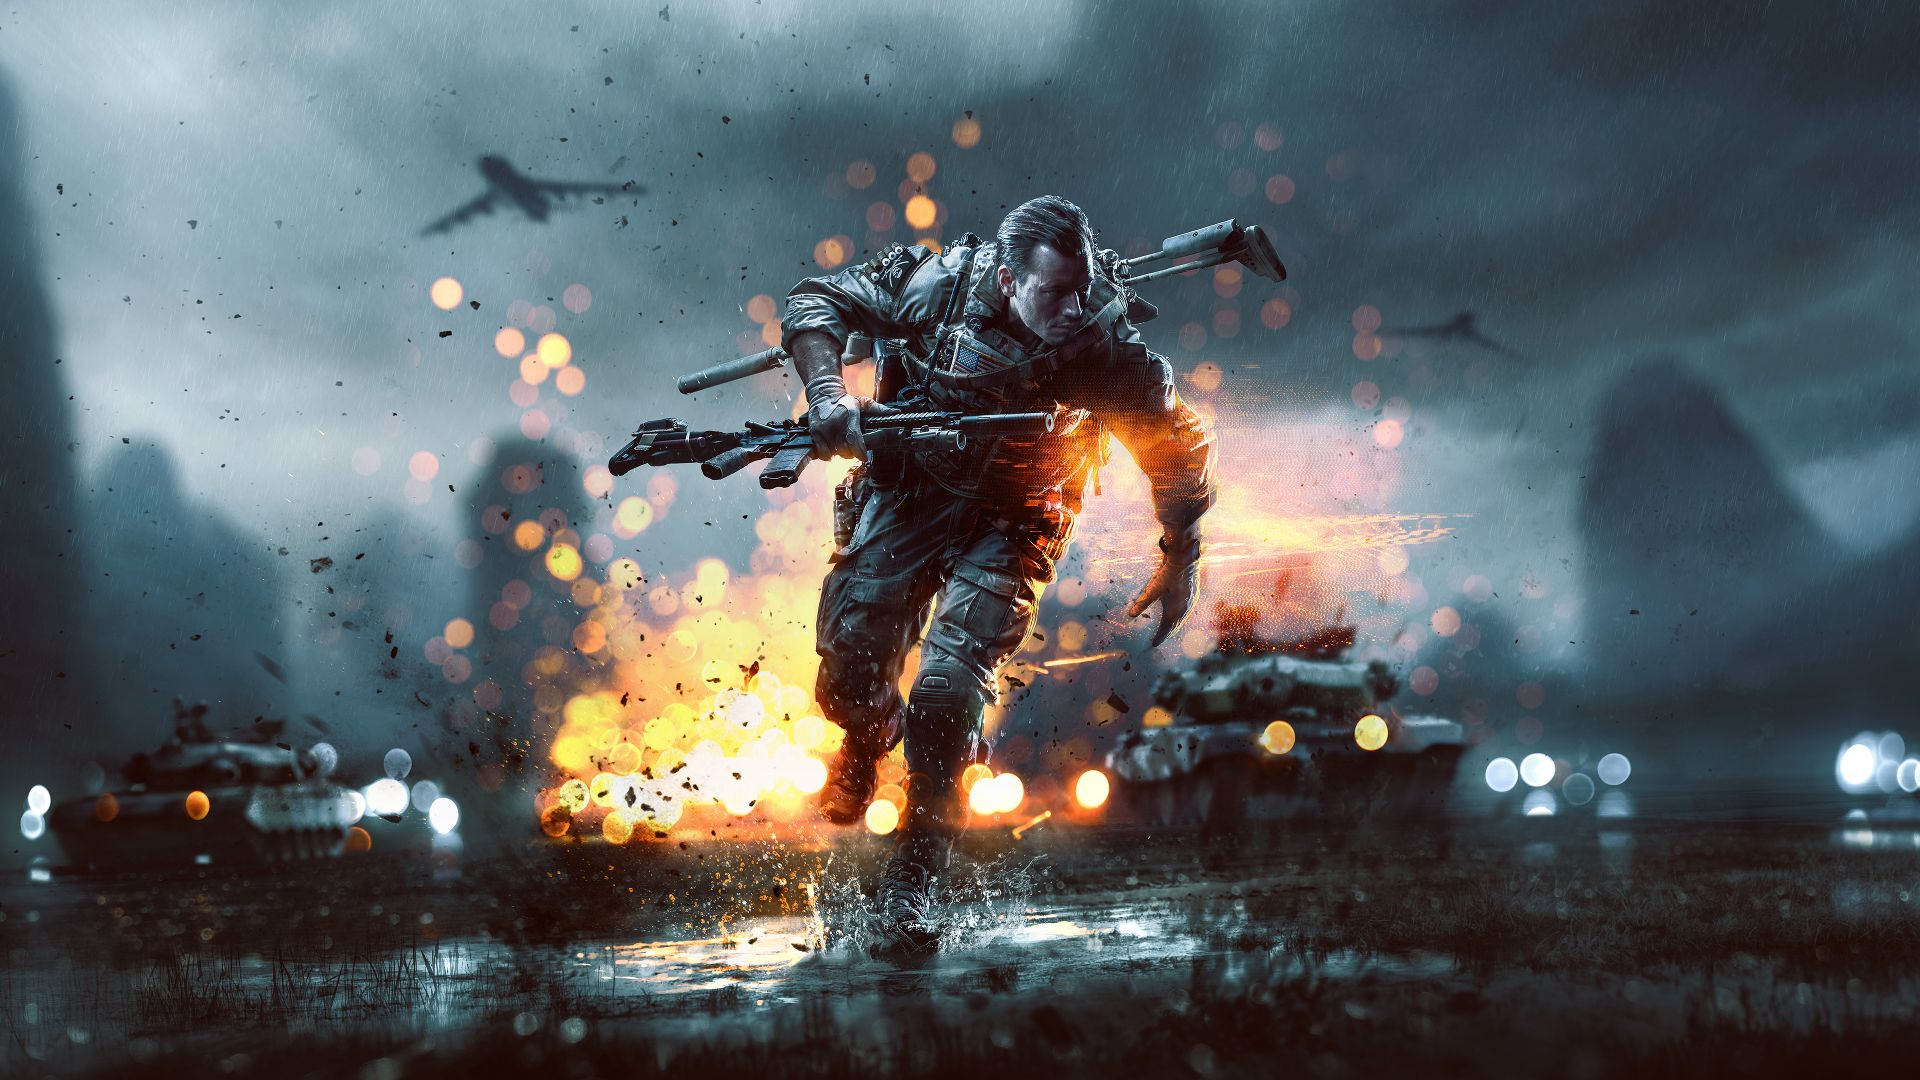
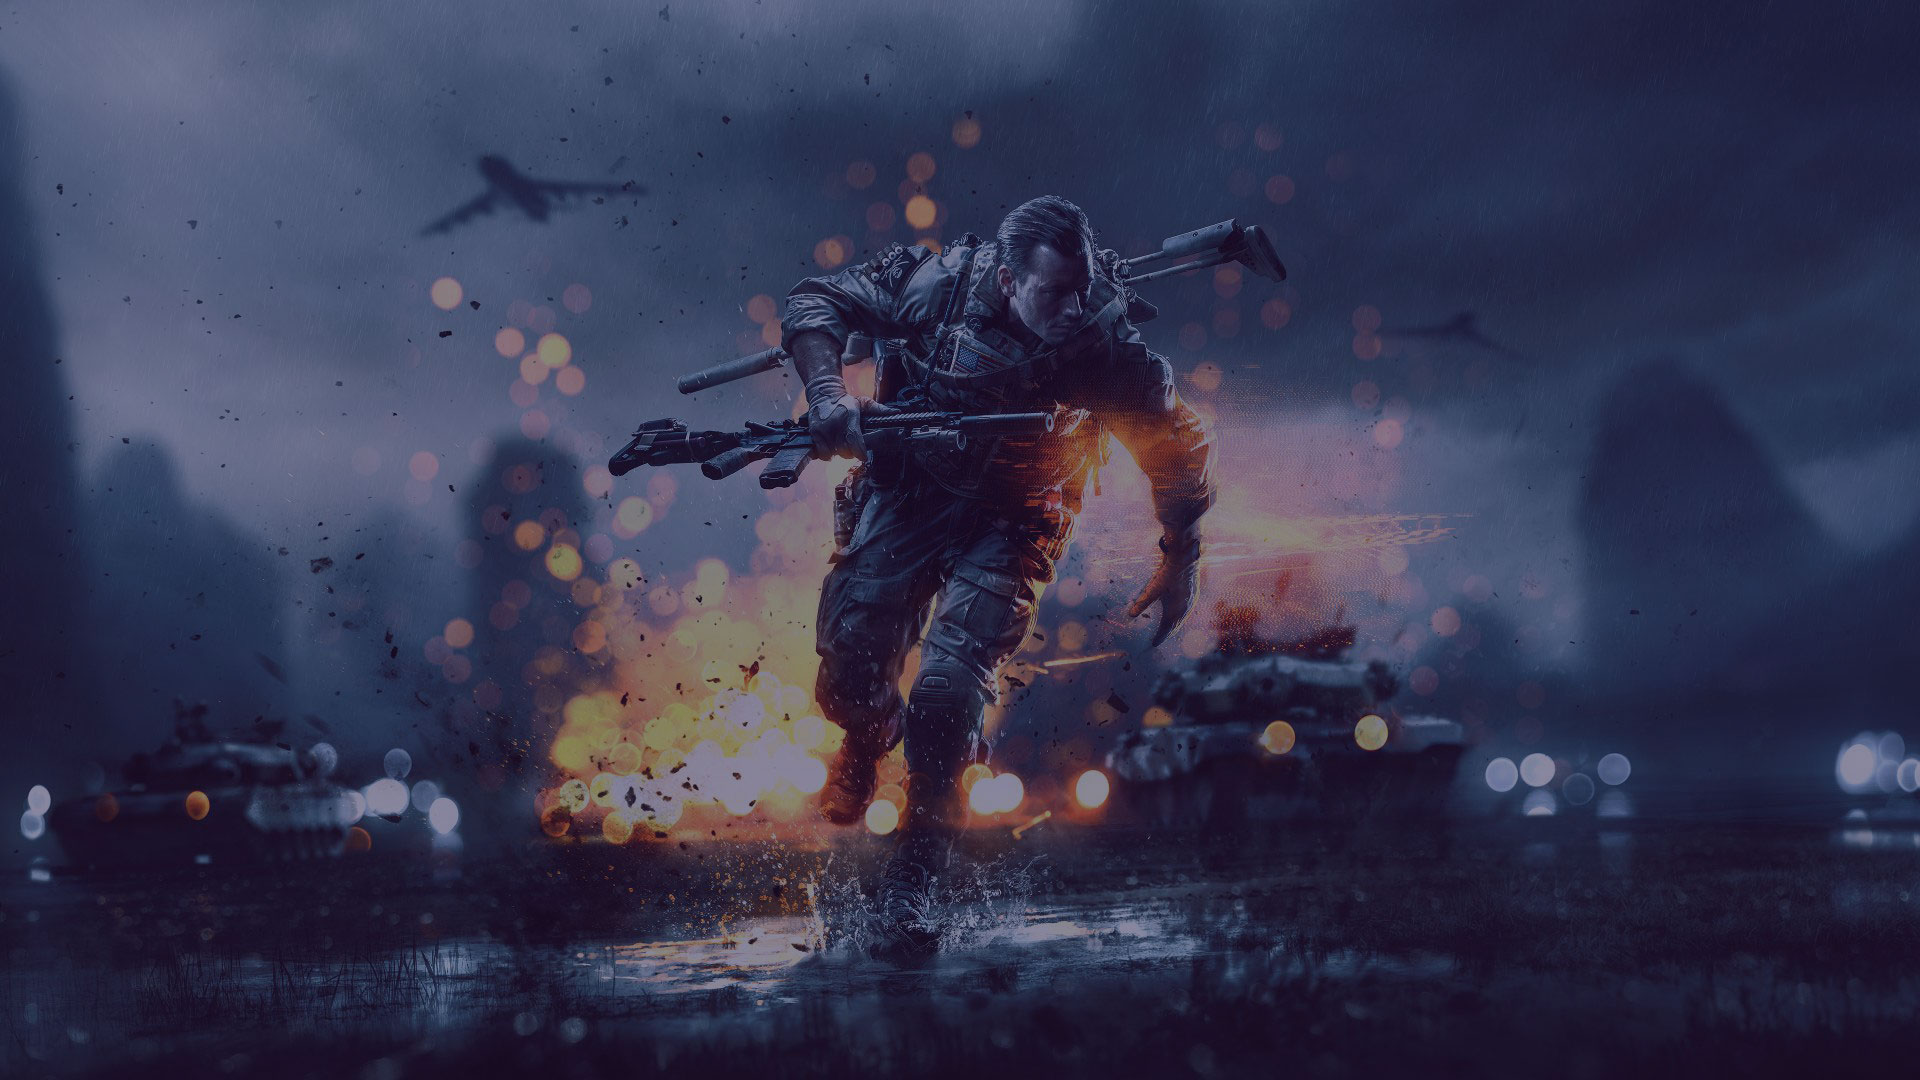
Added some effects

diff --git a/react-redux-app/src/components/Slider.js b/react-redux-app/src/components/Slider.js
@@ -1,17 +1,28 @@
 // Import Dependencies
-import React from "react";
+import React, { useEffect } from "react";
+import { gsap } from "gsap";
 
 // Import Assets
 import bgSlide from "../assets/Nice-Battlefield-4.jpg";
 
-export default function Slider() {
-  return (
-    <div className='slider'>
-      <div className='bgSlide'>
-        <img src={bgSlide} alt='' />
-      </div>
+// Import Components
+import DealsForm from "../components/DealsForm";
 
+export default function Slider() {
+  // Apply effects upon rendering
+  useEffect(() => {
+    gsap.from(".slider", {
+      opacity: 0,
+      scale: 1.5,
+      duration: 2,
+    });
+  }, []);
+
+  return (
+    <div className='slider' style={{ backgroundImage: `url(${bgSlide})` }}>
       <h3>Search for best video game deals</h3>
+
+      <DealsForm />
     </div>
   );
 }

diff --git a/react-redux-app/src/App.css b/react-redux-app/src/App.css
@@ -15,18 +15,30 @@ img {
   margin: 0 auto;
 }
 
+body {
+  background-color: black;
+}
+
+.App {
+  display: flex;
+  justify-content: center;
+}
+
 /* Header */
 
 header {
-  background: #130f40;
+  background: rgba(19, 15, 64, 0.9);
+  z-index: 100;
+  width: 100%;
 }
 
 header .inner-header {
   display: flex;
+  padding: 10px 20px;
 }
 
 header .logo {
-  max-width: 400px;
+  max-width: 200px;
 }
 
 /* Slider */
@@ -38,7 +50,15 @@ header .logo {
   display: flex;
   align-items: center;
   justify-content: center;
+  overflow: hidden;
+  position: fixed;
+  top: 0;
+  z-index: 10;
+  flex-direction: column;
+  background-attachment: fixed;
+  background-size: cover;
+  background-position: center;
 }
-
-.slider .bgSlide {
+.slider .bgSlide img {
+  width: 100%;
 }

diff --git a/react-redux-app/src/App.js b/react-redux-app/src/App.js
@@ -7,14 +7,13 @@ import "./App.css";
 
 // Import Components
 import DealList from "./components/DealList";
-import DealsForm from "./components/DealsForm";
 import Header from "./components/Header";
 import Slider from "./components/Slider";
 
 function App() {
   // Add some initial effects upon rendering
   useEffect(() => {
-    gsap.from("header", { opacity: 0, y: -100, duration: 1 });
+    gsap.from("header", { opacity: 0, y: -100, duration: 1, delay: 1 });
   }, []);
 
   return (
@@ -22,7 +21,6 @@ function App() {
       <Header />
       <Slider />
 
-      <DealsForm />
       <DealList />
     </div>
   );
